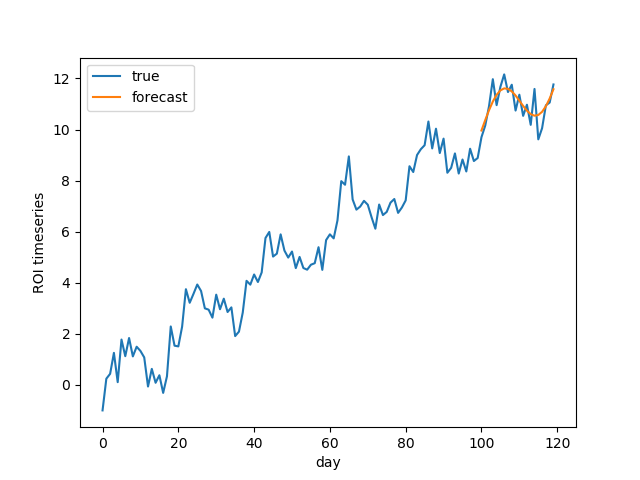
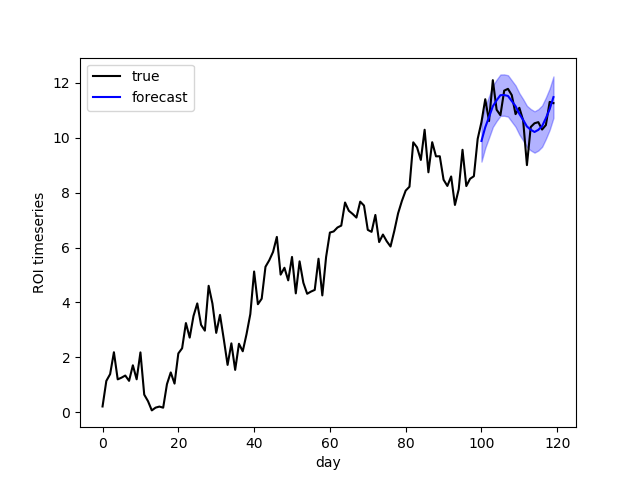
add error envelopes

diff --git a/divinity/__init__.py b/divinity/__init__.py
@@ -1,5 +1,9 @@
 import numpy as np
 import pandas as pd
+import sklearn.linear_model
+import statsmodels.tsa.arima_model as arima_model
+from functools import wraps
+import inspect
 import warnings
 
 def gen_season(N,periods = [10,20],sine_amplitudes = [1,1],cosine_amplitudes = [0,0]):
@@ -76,5 +80,140 @@ def gen_fake(N, trend_order,
     features_tot = pd.concat([features_trend, features_season], axis=1)
     y_tot = y_trend + y_season
     return{'features':features_tot,'target':y_tot}
+
+
+
+def get_error(yres, conf_limit = 95):
+    ordered_y_res = np.sort(yres)
+    N = len(ordered_y_res)
+    idx_lo = int((100. - conf_limit) / 2 / 100 * N)
+    idx_hi = int(100 - (100. - conf_limit) / 2 / 100 * N)
+    return ordered_y_res[idx_hi] - ordered_y_res[idx_lo]  # *np.std(self._y_res)
+
+
+def initializer(func):
+    """
+    Automatically assigns the class input parameters.
+    """
+    names, varargs, keywords, defaults, \
+    kwonlyargs, kwonlydefaults, annotations = inspect.getfullargspec(func)
+
+    @wraps(func)
+    def wrapper(self, *args, **kargs):
+        for name, arg in list(zip(names[1:], args)) + list(kargs.items()):
+            setattr(self, name, arg)
+
+        for name, default in zip(reversed(names), reversed(defaults)):
+            if not hasattr(self, name):
+                setattr(self, name, default)
+
+        func(self, *args, **kargs)
+
+    return wrapper
+
+class divinity:
+    @initializer
+    def __init__(self,
+                 forecast_length,
+                 confidence_interval = 95.0,
+                 seasonal_periods = [7,14.,28.,30.,90.,120.,182.,365.],
+                 trend_order = [0,1],
+                 trend_seasonal_model = sklearn.linear_model.RidgeCV(alphas=(0.1, 1.0, 10.0),
+                                                                     fit_intercept=False,
+                                                                     normalize=False,
+                                                                     scoring=None,
+                                                                     cv=None,
+                                                                     gcv_mode=None,
+                                                                     store_cv_values=False),
+                 residual_model = arima_model.ARIMA,
+                 residual_model_kwargs = {'order':(2,0,2),'exog':None},
+                 residual_model_fit_kwargs = {'trend':'nc', 'disp':0}):
+        self.features = None
+        self._Ntot = None
+        self._N = None
+        #pass
+
+    def _prep_features(self,N):
+        '''
+        prepare the feature matrix given the stated trend_order
+        seasonal_periods arguments
+        N should be the length of the training data plus the length of the
+        required forecast
+        :return:
+        '''
+        seasonality = gen_season(N, periods=self.seasonal_periods, sine_amplitudes=None, cosine_amplitudes=None)
+        trend = gen_trend(N, coef=self.trend_order, amplitudes=None)
+        self.features = pd.concat([trend['features'], seasonality['features']], axis=1)
+
+    def _fit_trend_season(self, y):
+        '''
+        fit the trend and seasonal components
+        :param X:
+        :param y:
+        :return:
+        '''
+        if self._N is None:
+            self._N = len(y)
+        if self._Ntot is None:
+            self._Ntot = self._N + self.forecast_length
+        if self.features is None:
+            self._prep_features(self._Ntot)
+        self.trend_seasonal_model.fit(self.features[:self._N],y)
+
+        #compute the model residuals to pass on
+        # to the residual model
+        self._y_model = self.trend_seasonal_model.predict(self.features)
+        self._y_res = y - self._y_model[:self._N]
+        sig = get_error(self._y_res, conf_limit=self.confidence_interval)
+        self._y_model_err = np.ones(self.forecast_length)*sig#*np.std(self._y_res)
+
+    def _fit_residual_model(self):
+        '''
+        fit the arima residual model to mop up
+        any predictive power missed by the trend/
+        seasonality
+        :return:
+        '''
+        self._live_res_model = self.residual_model(self._y_res, **self.residual_model_kwargs)
+        try:
+            self._live_res_model_fit = self._live_res_model.fit()
+            forecast = self._live_res_model_fit.predict(start=0, end=self._Ntot-1)
+            self._yres_pred_forecast = forecast[self._N:]
+            sig = get_error(forecast[:self._N] - self._y_res, conf_limit=self.confidence_interval)
+            self._yres_pred_err = sig*np.ones(self.forecast_length)
+
+
+            #forecast = self._live_res_model_fit.forecast(steps = self.forecast_length)
+            #forecast['forecast'], forecast['stderr'], forecast['conf_int']
+            #self._yres_pred_forecast = forecast['forecast']
+            #self._yres_pred_std = forecast['stderr']
+        except:
+            warnings.warn("Residual ARIMA model failure... Using only trend and seasonal components.")
+            self._yres_pred_forecast = np.zeros(self.forecast_length)
+            self._yres_pred_err = np.zeros(self.forecast_length)
+
+    def fit(self,y):
+        '''
+        combine the above steps into a general fit function
+        :param X:
+        :param y:
+        :return:
+        '''
+        #fit the trend and seasonal components
+        self._fit_trend_season(y)
+
+        #fit the residual arima model
+        self._fit_residual_model()
+
+    def predict(self):
+        '''
+        return the foreward forecast for Nsteps specified by the
+        forecast_length input argument
+        :return:
+        '''
+        self.ypred = self._yres_pred_forecast + self._y_model[self._N:]
+        self.ystd = np.sqrt(self._yres_pred_err**2 + self._y_model_err**2)/2
+        return self.ypred
+
 
 

diff --git a/scratch/scratch.py b/scratch/scratch.py
@@ -1,13 +1,21 @@
 import numpy as np
 import pandas as pd
 import divinity as dv
-from scipy import signal
 import matplotlib.pyplot as plt
 import sklearn.linear_model
 import statsmodels.tsa.arima_model as arima_model
 from functools import wraps
 import inspect
 import warnings
+
+
+def get_error(yres, conf_limit = 95):
+    ordered_y_res = np.sort(yres)
+    N = len(ordered_y_res)
+    idx_lo = int((100. - conf_limit) / 2 / 100 * N)
+    idx_hi = int(100 - (100. - conf_limit) / 2 / 100 * N)
+    return ordered_y_res[idx_hi] - ordered_y_res[idx_lo]  # *np.std(self._y_res)
+
 
 def initializer(func):
     """
@@ -33,6 +41,7 @@ class divinity:
     @initializer
     def __init__(self,
                  forecast_length,
+                 confidence_interval = 95.0,
                  seasonal_periods = [7,14.,28.,30.,90.,120.,182.,365.],
                  trend_order = [0,1],
                  trend_seasonal_model = sklearn.linear_model.RidgeCV(alphas=(0.1, 1.0, 10.0),
@@ -76,10 +85,13 @@ class divinity:
         if self.features is None:
             self._prep_features(self._Ntot)
         self.trend_seasonal_model.fit(self.features[:self._N],y)
+
         #compute the model residuals to pass on
         # to the residual model
         self._y_model = self.trend_seasonal_model.predict(self.features)
         self._y_res = y - self._y_model[:self._N]
+        sig = get_error(self._y_res, conf_limit=self.confidence_interval)
+        self._y_model_err = np.ones(self.forecast_length)*sig#*np.std(self._y_res)
 
     def _fit_residual_model(self):
         '''
@@ -91,12 +103,20 @@ class divinity:
         self._live_res_model = self.residual_model(self._y_res, **self.residual_model_kwargs)
         try:
             self._live_res_model_fit = self._live_res_model.fit()
-            forecast = self._live_res_model_fit.forecast(steps = self.forecast_length)
+            forecast = self._live_res_model_fit.predict(start=0, end=self._Ntot-1)
+            self._yres_pred_forecast = forecast[self._N:]
+            sig = get_error(forecast[:self._N] - self._y_res, conf_limit=self.confidence_interval)
+            self._yres_pred_err = sig*np.ones(self.forecast_length)
+
+
+            #forecast = self._live_res_model_fit.forecast(steps = self.forecast_length)
             #forecast['forecast'], forecast['stderr'], forecast['conf_int']
-            self._yres_pred_forecast = forecast['forecast']
+            #self._yres_pred_forecast = forecast['forecast']
+            #self._yres_pred_std = forecast['stderr']
         except:
             warnings.warn("Residual ARIMA model failure... Using only trend and seasonal components.")
             self._yres_pred_forecast = np.zeros(self.forecast_length)
+            self._yres_pred_err = np.zeros(self.forecast_length)
 
     def fit(self,y):
         '''
@@ -117,7 +137,9 @@ class divinity:
         forecast_length input argument
         :return:
         '''
-        return(self._yres_pred_forecast + self._y_model[self._N:] )
+        self.ypred = self._yres_pred_forecast + self._y_model[self._N:]
+        self.ystd = np.sqrt(self._yres_pred_err**2 + self._y_model_err**2)/2
+        return self.ypred
 
 
 
@@ -163,13 +185,18 @@ if __name__ == '__main__':
     Ntest = 100
     t = np.arange(N)
     y_test = 0.1*t + np.sin(2*np.pi/20*t) + np.random.randn(N)*0.5
-    dfc = divinity(forecast_length=N - Ntest, seasonal_periods=[20])#list(np.arange(2,50))
+    dfc = dv.divinity(forecast_length=N - Ntest,
+                      seasonal_periods=[20],
+                      confidence_interval=70.)
     dfc.fit(y_test[:Ntest])
     y_forecast = dfc.predict()
     fig = plt.figure()
     ax1 = fig.add_subplot(111)
-    ax1.plot(t, y_test,label='true')
-    ax1.plot(t[Ntest:],y_forecast,label='forecast')
+    ax1.plot(t, y_test,label='true',color='k')
+    ax1.plot(t[Ntest:],y_forecast,label='forecast',color='b')
+    ax1.fill_between(t[Ntest:], y_forecast - dfc.ystd,
+                     y_forecast + dfc.ystd,
+                     alpha = 0.3, color='b',label = None)
     ax1.set_ylabel('ROI timeseries')
     ax1.set_xlabel('day')
     plt.legend()
